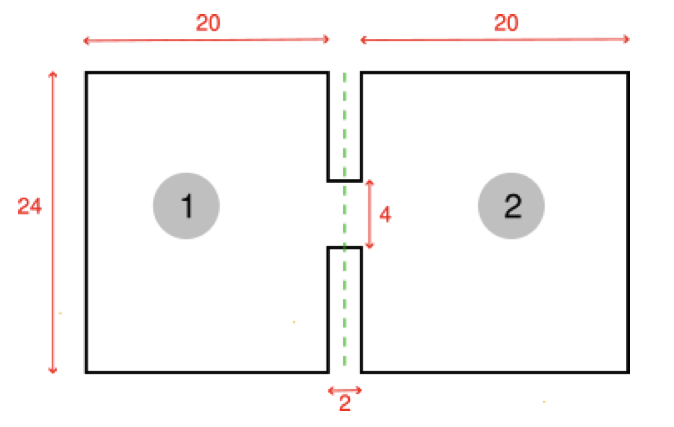
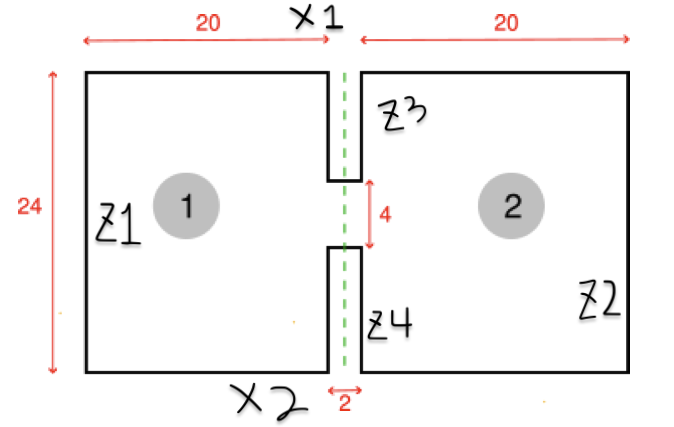
map structure done

diff --git a/APP2/main.cpp b/APP2/main.cpp
@@ -197,7 +197,7 @@ int main(int argc, char *argv[])
     glm::mat4 shadowProj = glm::perspective(glm::radians(90.0f), 1.0f, nearPlane, farPlane);
 
     // Camera parameters
-    glm::vec3 cameraPos(0.0f, 0.0f, 5.0f);    // Initial position of the camera
+    glm::vec3 cameraPos(1.0f, 2.0f, 1.0f);    // Initial position of the camera
     glm::vec3 cameraFront(0.0f, 0.0f, -1.0f); // Direction the camera is looking at
     glm::vec3 cameraUp(0.0f, 1.0f, 0.0f);     // Up vector
 
@@ -206,7 +206,7 @@ int main(int argc, char *argv[])
     float yaw = -90.0f; // Yaw angle initialized to -90 degrees to look towards negative Z
     float pitch = 0.0f; // Pitch angle
 
-    float cameraSpeed = 5.0f; // Adjust accordingly
+    float cameraSpeed = 10.0f; // Adjust accordingly
     float deltaTime = 0.0f;   // Time between current frame and last frame
     float lastFrame = 0.0f;   // Time of last frame
 
@@ -224,92 +224,40 @@ int main(int argc, char *argv[])
     GLsizei cubeIndexCount = static_cast<GLsizei>(cubeIndices.size());
     // GLsizei sphereVertexCount = sphere.getVertexCount();
 
-    // Add sphere to the scene
-    addSphere(
-        glm::vec3(0.0f, 0.0f, 0.0f), // Position
-        1.0f,                        // Radius
-        glm::vec3(1.0f),             // Color (white)
-        true,                        // Use texture
-        soccerTextureID,             // Texture ID
-        soccerTextureID_normalMap,   // Normal map ID
-        sphereVAO,                   // VAO ID
-        sphereVertexCount            // Vertex count
-    );
+    // floor
+    glm::vec3 origin(0.0f, 0.0f, 0.0f);
+    glm::vec3 floorSize(42.0f, 1.0f, 24.0f);
+    createCompositeCube(origin, floorSize, stoneTextureID, stoneTextureID_normalMap, cubeVAO, cubeIndexCount);
 
-    addCube(
-        glm::vec3(-2.0f, -1.0f, 0.0f), // Position
-        glm::vec3(1.0f),              // Scale
-        glm::vec3(0.2f, 1.0f, 0.1f),  // Color
-        false,                        // Use texture
-        0,                            // Texture ID
-        0,                            // Normal map ID
-        glm::vec3(0.0f),              // Rotation axis
-        0.0f,                         // Rotation angle
-        cubeVAO,                      // VAO ID
-        cubeIndexCount                // Index count
-    );
+    // wall X1
+    glm::vec3 wallPosition1(0.0f, 1.0f, 0.0f);
+    glm::vec3 wallSizeX(42.0f, 3.0f, 1.0f);
+    createCompositeCube(wallPosition1, wallSizeX, stoneTextureID, stoneTextureID_normalMap, cubeVAO, cubeIndexCount);
 
-    addCube(
-        glm::vec3(0.0f, -1.0f, 0.0f), // Position
-        glm::vec3(0.5f, 1.0f, 0.5f), // Scale (non-uniform)
-        glm::vec3(0.3f),             // Color (gray)
-        false,                       // Use texture
-        0,                           // Texture ID
-        0,                           // Normal map ID
-        glm::vec3(1.0f),             // Rotation axis
-        0.0f,                        // Rotation angle
-        cubeVAO,                     // VAO ID
-        cubeIndexCount               // Index count
-    );
+    // wall X2
+    glm::vec3 wallPosition2(0.0f, 1.0f, 23.0f);
+    createCompositeCube(wallPosition2, wallSizeX, stoneTextureID, stoneTextureID_normalMap, cubeVAO, cubeIndexCount);
 
-    // Add textured cube
-    addCube(
-        glm::vec3(0.0f, 0.0f, 2.0f), // Position
-        glm::vec3(1.0f),             // Scale
-        glm::vec3(1.0f),             // Color (white, not used)
-        true,                        // Use texture
-        textureID,                   // Texture ID
-        textureID_normalMap,         // Normal map ID
-        glm::vec3(0.0f),             // Rotation axis
-        0.0f,                        // Rotation angle
-        cubeVAO,                     // VAO ID
-        cubeIndexCount               // Index count
-    );
+    // wall Z1
+    glm::vec3 wallPosition3(0.0f, 1.0f, 1.0f);
+    glm::vec3 wallSizeZ1(1.0f, 3.0f, 22.0f);
+    createCompositeCube(wallPosition3, wallSizeZ1, stoneTextureID, stoneTextureID_normalMap, cubeVAO, cubeIndexCount);
 
-    // Add textured cube
-    addCube(
-        glm::vec3(0.0f, -1.0f, 3.0f), // Position
-        glm::vec3(1.0f),             // Scale
-        glm::vec3(1.0f),             // Color (white, not used)
-        true,                        // Use texture
-        brownTerracottaTextureID,    // Texture ID
-        brownTerracottaTextureID_normalMap,
-        glm::vec3(0.0f),             // Rotation axis
-        0.0f,                        // Rotation angle
-        cubeVAO,                     // VAO ID
-        cubeIndexCount               // Index count
-    );
+    // wall Z2
+    glm::vec3 wallPosition4(41.0f, 1.0f, 1.0f);
+    createCompositeCube(wallPosition4, wallSizeZ1, stoneTextureID, stoneTextureID_normalMap, cubeVAO, cubeIndexCount);
 
-    // Add floor grid cubes
-    for (int x = 0; x < numCubesX; ++x)
-    {
-        for (int z = 0; z < numCubesZ; ++z)
-        {
-            glm::vec3 position(-7.0f + x * spacingX, -2.0f, 7.0f - z * spacingZ);
-            addCube(
-                position,        // Position
-                glm::vec3(1.0f), // Scale
-                glm::vec3(1.0f), // Color (white, not used)
-                true,            // Use texture
-                stoneTextureID,  // Texture ID
-                stoneTextureID_normalMap,
-                glm::vec3(0.0f), // Rotation axis
-                0.0f,            // Rotation angle
-                cubeVAO,         // VAO ID
-                cubeIndexCount   // Index count
-            );
-        }
-    }
+    // separation wall, Z3
+    glm::vec3 wallPosition5(20.0f, 1.0f, 1.0f);
+    glm::vec3 wallSizeZ2(2.0f, 3.0f, 9.0f);
+    createCompositeCube(wallPosition5, wallSizeZ2, stoneTextureID, stoneTextureID_normalMap, cubeVAO, cubeIndexCount);
+
+    // separation wall, Z4
+    glm::vec3 wallPosition6(20.0f, 1.0f, 14.0f);
+    createCompositeCube(wallPosition6, wallSizeZ2, stoneTextureID, stoneTextureID_normalMap, cubeVAO, cubeIndexCount);
+
+
+    // =======================
 
     // Main loop variables
     bool done = false;
@@ -331,20 +279,21 @@ int main(int argc, char *argv[])
             fps = frameCount;
             frameCount = 0;
             fpsTimer -= 1.0f;
-
-            // Update window title with FPS
-            std::string newTitle = "Boules - FPS: " + std::to_string(fps);
-            SDL_SetWindowTitle(windowManager.getWindow(), newTitle.c_str());
         }
 
+        // Update window title with camera position every frame
+        // std::string newTitle = "Boules - FPS: " + std::to_string(fps) + " - Position: (" + std::to_string(cameraPos.x) + ", " + std::to_string(cameraPos.z) + ")";
+        std::string newTitle = std::to_string(cameraPos.x) + ", " + std::to_string(cameraPos.z);
+        SDL_SetWindowTitle(windowManager.getWindow(), newTitle.c_str());
+
         // Update light intensity dynamically within the loop
-        glm::vec3 lightIntensity = glm::vec3(
-            (sin(currentFrame) + 1.0f) / 2.0f,       // Red oscillates between 0 and 1
-            (cos(currentFrame) + 1.0f) / 2.0f,       // Green oscillates between 0 and 1
-            (sin(currentFrame * 0.5f) + 1.0f) / 2.0f // Blue oscillates more slowly between 0 and 1
-        );
+        // glm::vec3 lightIntensity = glm::vec3(
+        //     (sin(currentFrame) + 1.0f) / 2.0f,       // Red oscillates between 0 and 1
+        //     (cos(currentFrame) + 1.0f) / 2.0f,       // Green oscillates between 0 and 1
+        //     (sin(currentFrame * 0.5f) + 1.0f) / 2.0f // Blue oscillates more slowly between 0 and 1
+        // );
         // white light
-        // glm::vec3 lightIntensity = glm::vec3(1.0f);
+        glm::vec3 lightIntensity = glm::vec3(1.0f);
 
         // Event handling
         SDL_Event e;
@@ -456,13 +405,16 @@ int main(int argc, char *argv[])
         float spiralSpeed = 0.5f;      // Adjust the speed of the rotation
         float fixedHeight = 2.0f;      // Set the fixed height of the light
 
-        glm::vec3 lightPosWorld;
-        lightPosWorld.x = spiralRadius * cos(currentFrame * spiralSpeed);
-        lightPosWorld.y = fixedHeight; // Fixed height
-        lightPosWorld.z = spiralRadius * sin(currentFrame * spiralSpeed);
+        // glm::vec3 lightPosWorld;
+        // lightPosWorld.x = spiralRadius * cos(currentFrame * spiralSpeed);
+        // lightPosWorld.y = fixedHeight; // Fixed height
+        // lightPosWorld.z = spiralRadius * sin(currentFrame * spiralSpeed);
 
         // fixed light position
         // glm::vec3 lightPosWorld = glm::vec3(2.0f, 0.6f, 2.0f);
+
+        // light position on the camera
+        glm::vec3 lightPosWorld = cameraPos + glm::vec3(0.0f, 1.0f, 0.0f); // Slightly elevate the light position above the camera
 
         // Transform light position to view space
         glm::vec3 lightPosViewSpace = glm::vec3(ViewMatrix * glm::vec4(lightPosWorld, 1.0f));
@@ -680,9 +632,9 @@ int main(int argc, char *argv[])
             glUniform1i(glGetUniformLocation(unifiedProgram.getGLId(), "depthMap"), 1);
 
             // Set material properties (emissive)
-            glm::vec3 Kd = lightIntensity / 5.0f; // Adjust as needed
+            glm::vec3 Kd = lightIntensity / 5.0f; // Adjustable
             glm::vec3 Ks = glm::vec3(0.0f);       // No specular for the light indicator
-            float shininess = 0.0f;
+            float shininess = 1.0f;
             glUniform3fv(uKdLocation, 1, glm::value_ptr(Kd));
             glUniform3fv(uKsLocation, 1, glm::value_ptr(Ks));
             glUniform1f(uShininessLocation, shininess);

diff --git a/APP2/scene_object.cpp b/APP2/scene_object.cpp
@@ -40,3 +40,39 @@ void addSphere(const glm::vec3& position, float radius, const glm::vec3& color, 
 
     sceneObjects.push_back(sphereObject);
 }
+
+void createCompositeCube(
+    const glm::vec3& origin, 
+    const glm::vec3& size, 
+    GLuint textureID, 
+    GLuint normalMapID, 
+    GLuint vaoID, 
+    GLsizei indexCount)
+{
+    int numCubesX = static_cast<int>(size.x);
+    int numCubesY = static_cast<int>(size.y);
+    int numCubesZ = static_cast<int>(size.z);
+
+    for (int x = 0; x < numCubesX; ++x)
+    {
+        for (int y = 0; y < numCubesY; ++y)
+        {
+            for (int z = 0; z < numCubesZ; ++z)
+            {
+                glm::vec3 position = origin + glm::vec3(x, y, z);
+                addCube(
+                    position,                  // Position
+                    glm::vec3(1.0f),          // Scale (individual cubes are 1x1x1 units)
+                    glm::vec3(1.0f),          // Color (white, not used if texture is applied)
+                    true,                     // Use texture
+                    textureID,                // Texture ID
+                    normalMapID,              // Normal map ID
+                    glm::vec3(0.0f),          // Rotation axis
+                    0.0f,                     // Rotation angle
+                    vaoID,                    // VAO ID
+                    indexCount                // Index count
+                );
+            }
+        }
+    }
+}

diff --git a/APP2/scene_object.hpp b/APP2/scene_object.hpp
@@ -31,4 +31,6 @@ void addCube(const glm::vec3& position, const glm::vec3& scale, const glm::vec3&
 
 void addSphere(const glm::vec3& position, float radius, const glm::vec3& color, bool useTexture, GLuint textureID = 0, GLuint normalMapID = 0, GLuint vaoID = 0, GLsizei vertexCount = 0);
 
+void createCompositeCube(const glm::vec3& origin, const glm::vec3& size, GLuint textureID, GLuint normalMapID, GLuint vaoID, GLsizei indexCount);
+
 #endif // SCENE_OBJECT_HPP

diff --git a/note.md b/note.md
@@ -64,6 +64,8 @@ assignment :
 
 ---
 
+The walls are named follwing their axis, Z'n' and X'n' are the walls in the Z and X axis respectively.
+
 ![Room Structure](assets/images/Room_Structure.png)
 
 ---
